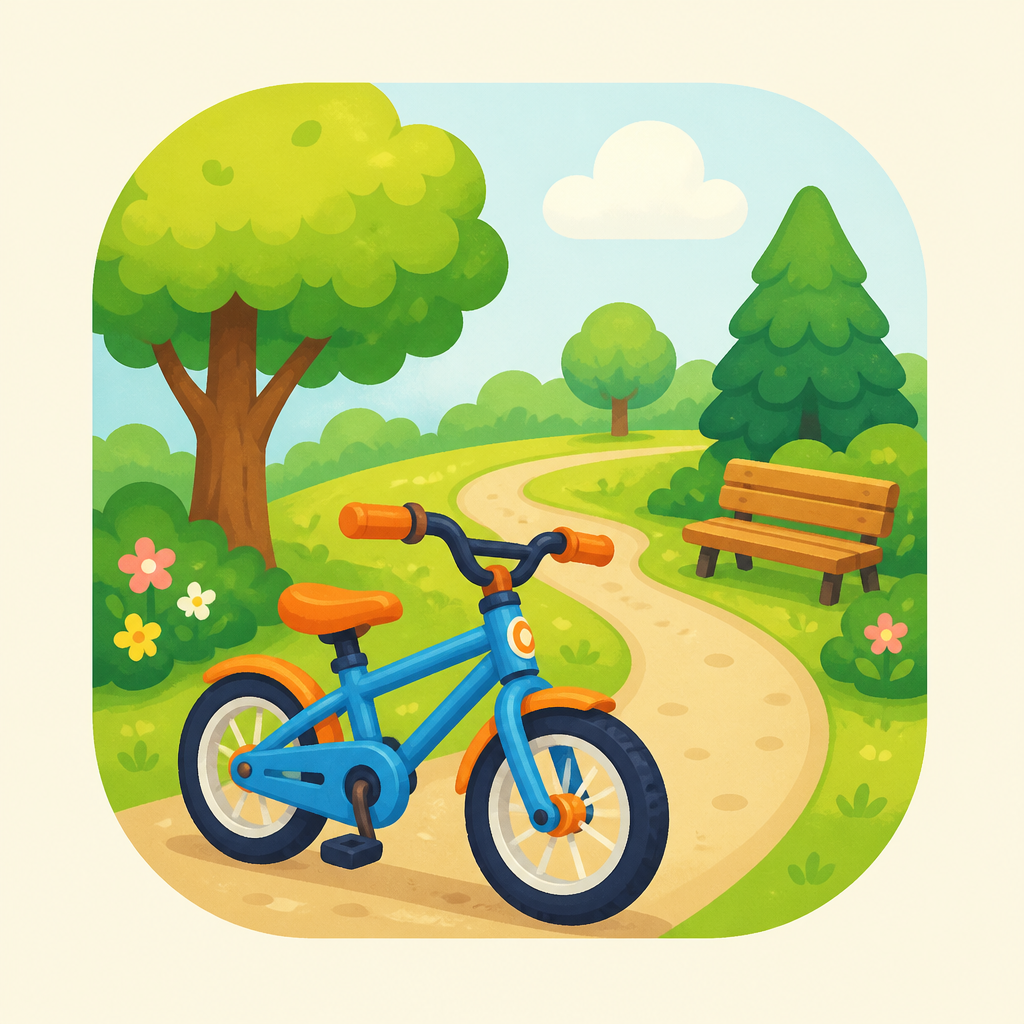
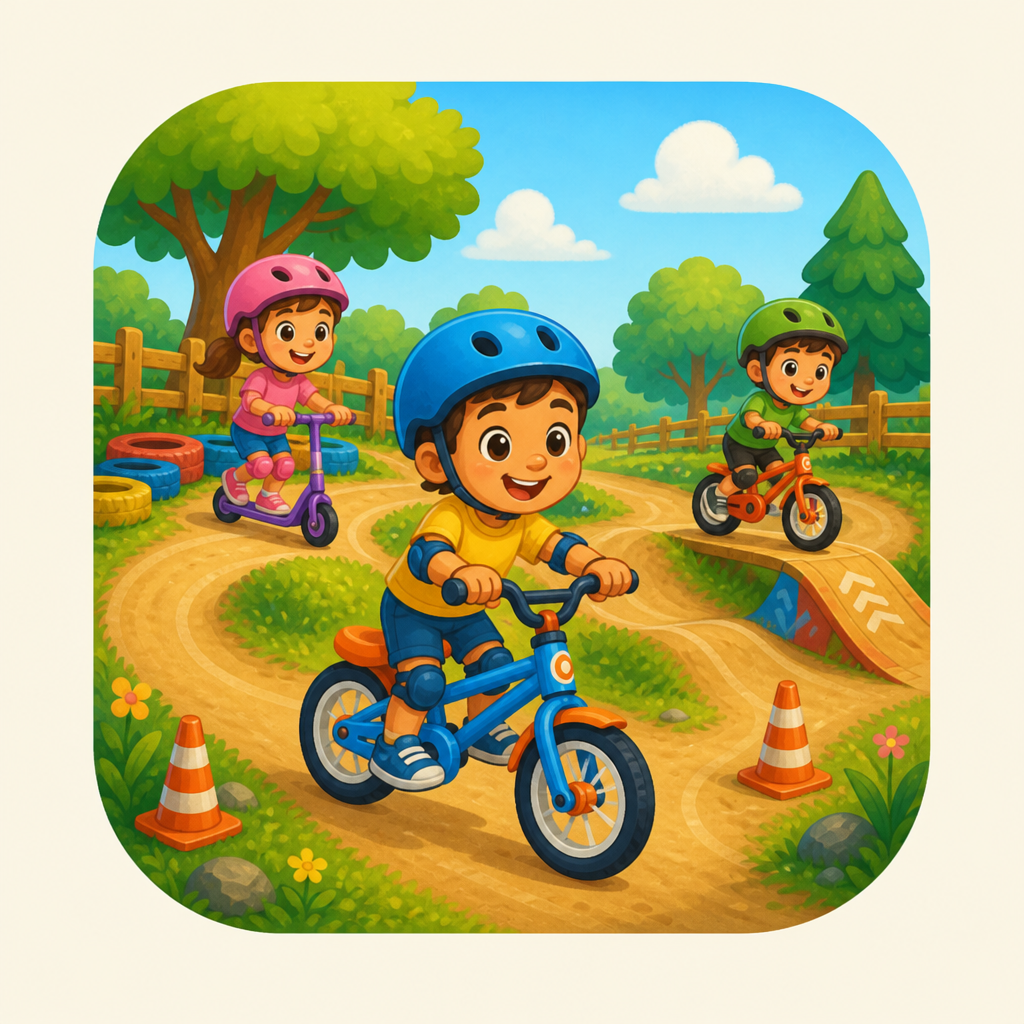
fix: 泵道关地图解锁与首页/地图图标可见
- 已通关 bike-08 的老进度自动解锁 bike-09
- 首页自行车世界图改为泵道主题；地图节点用新滑板车图

diff --git a/apps/web/src/progress/store.ts b/apps/web/src/progress/store.ts
@@ -106,6 +106,17 @@ function migrateSwimPack(pack: PackProgress): PackProgress {
   }
 }
 
+/** 自行车包追加 bike-09 后，已通关复习关的老玩家自动解锁泵道关 */
+function migrateBikePack(pack: PackProgress): PackProgress {
+  const PUMP = 'bike-09-pump-track'
+  const REVIEW = 'bike-08-review'
+  const unlocked = new Set(pack.unlocked)
+  if (pack.completed.includes(REVIEW) || unlocked.has(REVIEW)) {
+    unlocked.add(PUMP)
+  }
+  return { ...pack, unlocked: [...unlocked] }
+}
+
 export function loadProgress(): ProgressState {
   try {
     const v2 = localStorage.getItem(KEY)
@@ -115,6 +126,9 @@ export function loadProgress(): ProgressState {
       const packs = { ...base.packs, ...(parsed.packs || {}) }
       if (packs[SWIM]) {
         packs[SWIM] = migrateSwimPack(packs[SWIM])
+      }
+      if (packs[BIKE]) {
+        packs[BIKE] = migrateBikePack(packs[BIKE])
       }
       return {
         ...base,

diff --git a/apps/web/src/progress/store.bike.test.ts b/apps/web/src/progress/store.bike.test.ts
@@ -1,0 +1,27 @@
+import assert from 'node:assert/strict'
+import { describe, it } from 'node:test'
+import { loadProgress, PACK_IDS, saveProgress } from './store.ts'
+
+const BIKE = PACK_IDS.BIKE
+
+describe('bike pack migration', () => {
+  it('unlocks bike-09 when bike-08 review already completed', () => {
+    if (typeof localStorage === 'undefined') return
+    localStorage.clear()
+    saveProgress({
+      version: 2,
+      packs: {
+        [BIKE]: {
+          completed: ['bike-08-review'],
+          unlocked: ['bike-01-bike', 'bike-08-review'],
+          stickers: [],
+        },
+      },
+      stars: 0,
+      dailyLimitMinutes: 30,
+      playSecondsByDate: {},
+    })
+    const state = loadProgress()
+    assert.ok(state.packs[BIKE].unlocked.includes('bike-09-pump-track'))
+  })
+})
